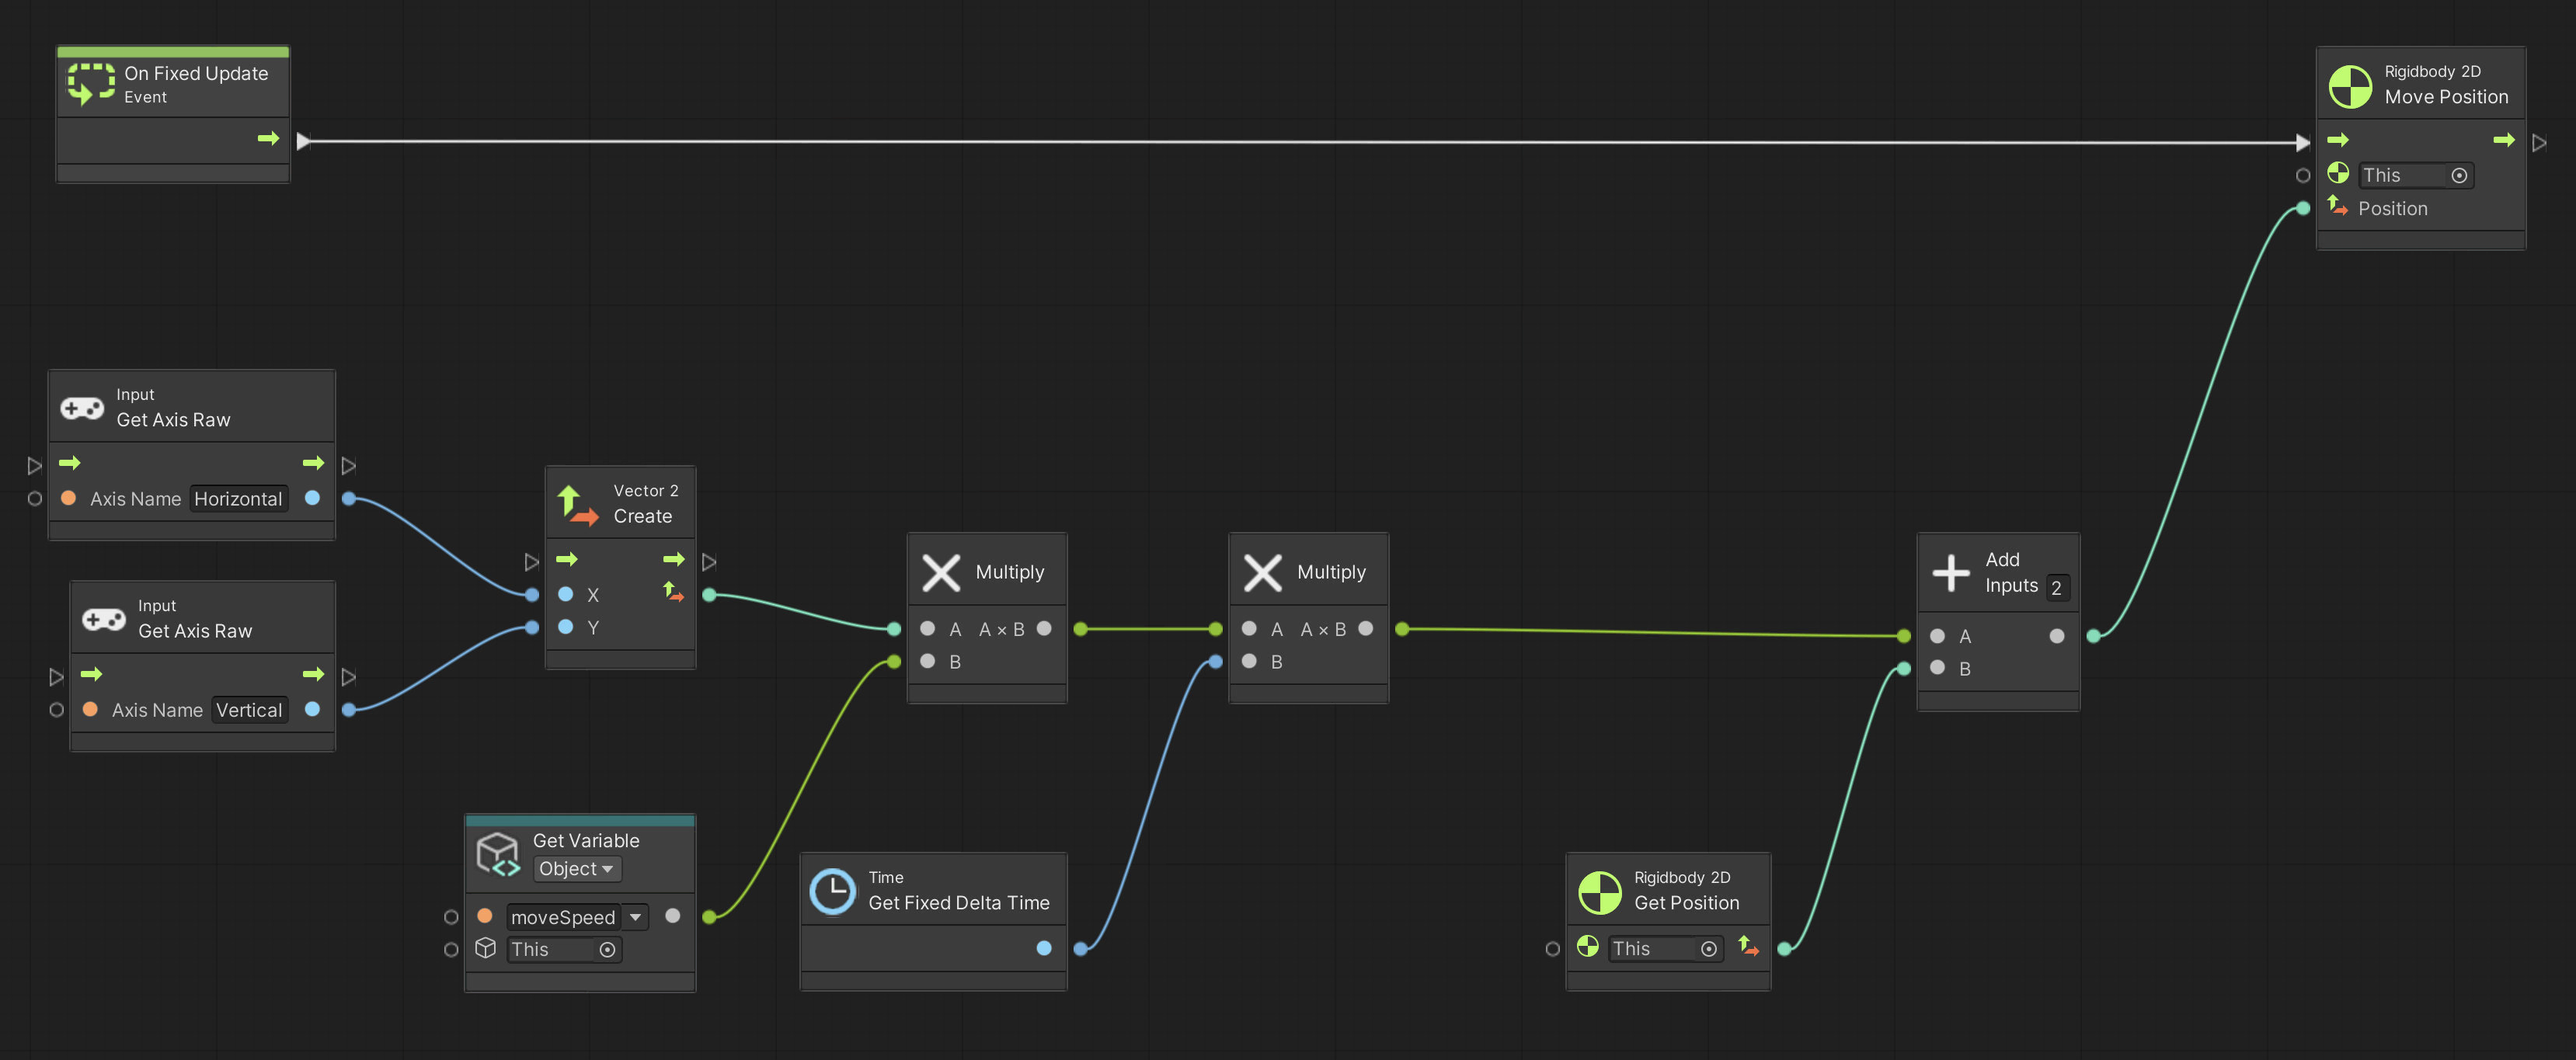
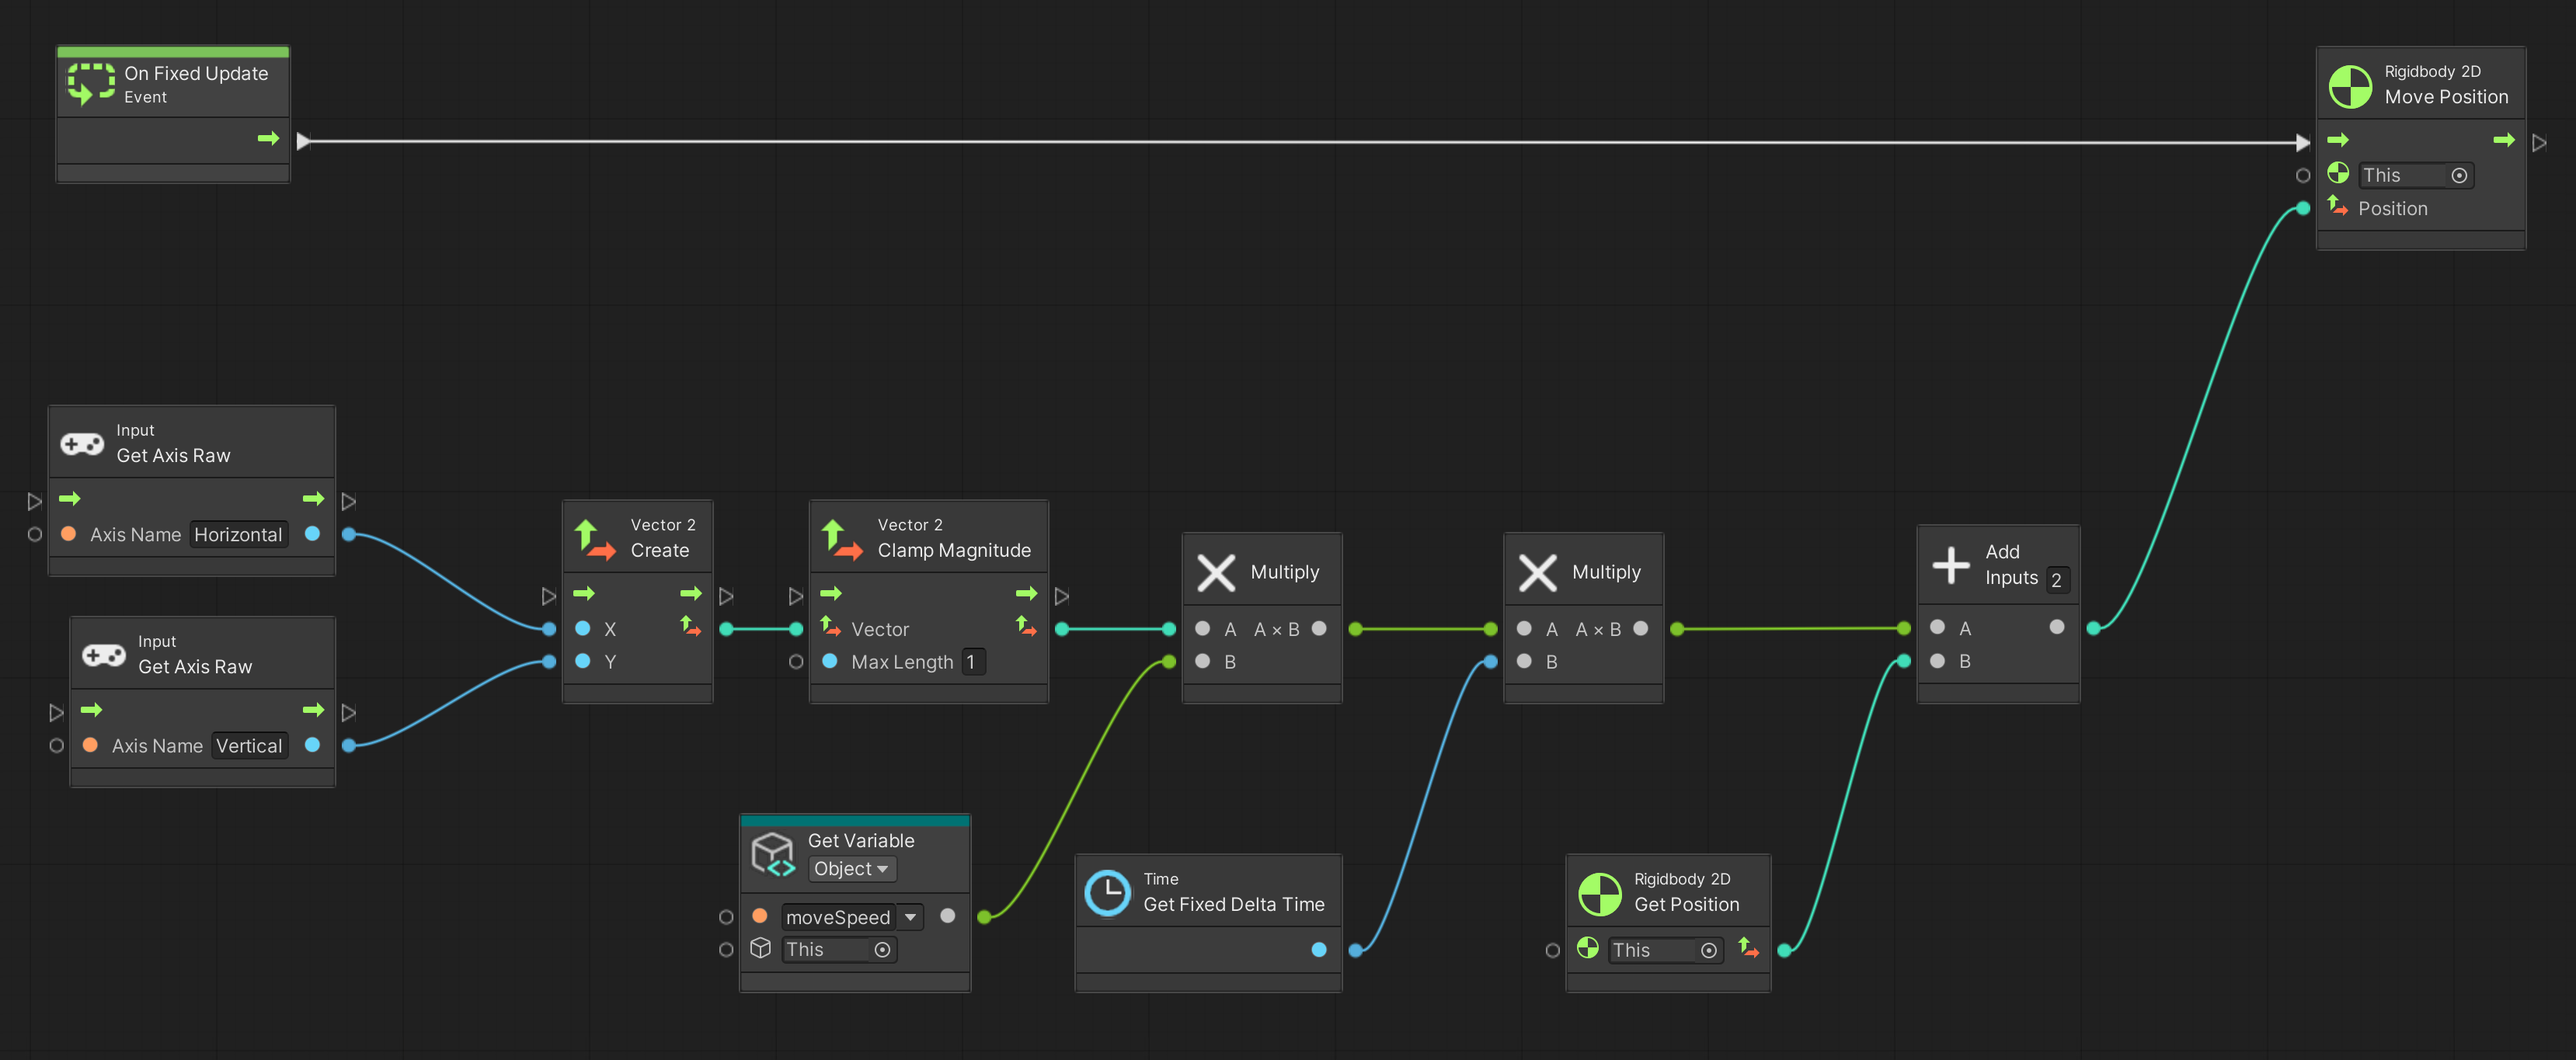
Add clamp

diff --git a/basics/01-a-simple-player/01-a-simple-player.md b/basics/01-a-simple-player/01-a-simple-player.md
@@ -28,7 +28,9 @@ The two **Input.Get Axis Raw** nodes use the `Horizontal` and `Vertical` input n
 
 The *output* of **Input.Get Axis Raw** is a value between `-1.0` and `1.0`. For the `Horizontal` axis this translates to *left* and *right*, and for the `Vertical` axis it translates to *down* and *up*.
 
-> A small side effect of adding the two axes together is that the player moves faster diagonally. We won't fix this in this example.
+A small side effect of adding the two axes together is that the player moves faster diagonally. To fix this, we can *clamp* the vector created from the input. We limit the *magnitude* to `1.0` and thereby prevent the player from moving faster.
+
+> The mathematical explanation for why the input is larger diagonally is explained by the Pythagorean theorem: <code>a<sup>2</sup> + b<sup>2</sup> = c<sup>2</sup></code>. Provided both `x` and `y` is `1`, the resulting vector will have a magnitude of the squareroot of 2 or approximately `1.4142`.
 
 ## On Update and On Fixed Update
 
